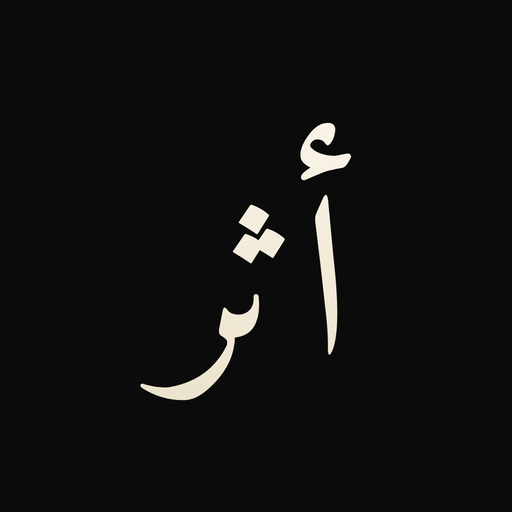
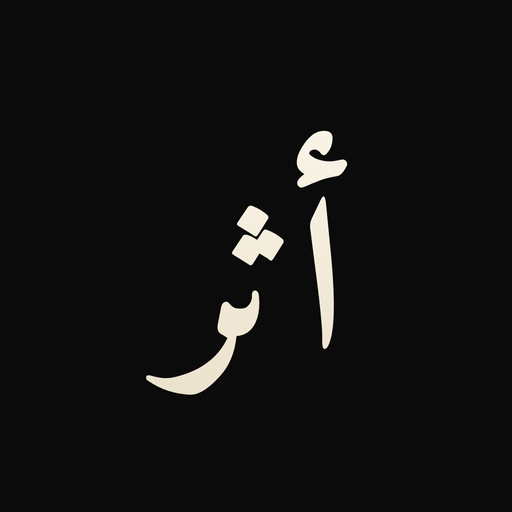
أيقونة التطبيق: «أثر» بالأميري العريض مثل عنوان الموقع (أبيض كريمي على أسود)
Claude-Session: https://claude.ai/code/session_01XcUMJFnzGYY2JY2GqwHN3p

diff --git a/sw.js b/sw.js
@@ -1,7 +1,7 @@
 /* أثر — service worker. Caches the app shell as-is (content is embedded in index.html, so offline = the exact bytes last fetched online).
    Navigations to the app (/ or index.html): network first; other pages (surah/ adhkar/ dua/ for search engines) come from the network and are never stored as the app.
    Navigations: network first (fresh content when online), cached copy when offline. Static files: cache first. Cache name changes whenever any file changes. */
-const VERSION='3622d4eab2a5',CACHE='athar-'+VERSION,SHELL=["./", "manifest.webmanifest", "pwa.js", "fonts.css", "fonts/hafs.18.woff2", "fonts/amiri-quran-arabic-400-normal.woff2", "fonts/amiri-quran-latin-400-normal.woff2", "fonts/amiri-arabic-400-normal.woff2", "fonts/amiri-arabic-700-normal.woff2", "fonts/amiri-latin-400-normal.woff2", "fonts/amiri-latin-700-normal.woff2", "fonts/ibm-plex-sans-arabic-arabic-400-normal.woff2", "fonts/ibm-plex-sans-arabic-arabic-500-normal.woff2", "fonts/ibm-plex-sans-arabic-arabic-600-normal.woff2", "fonts/ibm-plex-sans-arabic-latin-400-normal.woff2", "fonts/ibm-plex-sans-arabic-latin-500-normal.woff2", "fonts/ibm-plex-sans-arabic-latin-600-normal.woff2", "icons/favicon-a1.svg", "icons/icon-192-a1.png", "icons/icon-512-a1.png", "icons/maskable-512-a1.png", "icons/apple-touch-icon-a1.png"];
+const VERSION='155d8e295181',CACHE='athar-'+VERSION,SHELL=["./", "manifest.webmanifest", "pwa.js", "fonts.css", "fonts/hafs.18.woff2", "fonts/amiri-quran-arabic-400-normal.woff2", "fonts/amiri-quran-latin-400-normal.woff2", "fonts/amiri-arabic-400-normal.woff2", "fonts/amiri-arabic-700-normal.woff2", "fonts/amiri-latin-400-normal.woff2", "fonts/amiri-latin-700-normal.woff2", "fonts/ibm-plex-sans-arabic-arabic-400-normal.woff2", "fonts/ibm-plex-sans-arabic-arabic-500-normal.woff2", "fonts/ibm-plex-sans-arabic-arabic-600-normal.woff2", "fonts/ibm-plex-sans-arabic-latin-400-normal.woff2", "fonts/ibm-plex-sans-arabic-latin-500-normal.woff2", "fonts/ibm-plex-sans-arabic-latin-600-normal.woff2", "icons/favicon-a1.svg", "icons/icon-192-a1.png", "icons/icon-512-a1.png", "icons/maskable-512-a1.png", "icons/apple-touch-icon-a1.png"];
 /* The app page is cached under the site root (./), never under index.html: Cloudflare answers /index.html with a redirect to /,
    and Safari refuses to open a page from a cached redirected response ("Response served by service worker has redirections") — the app then failed offline. */
 const APP=new URL('./',self.registration.scope).href;
